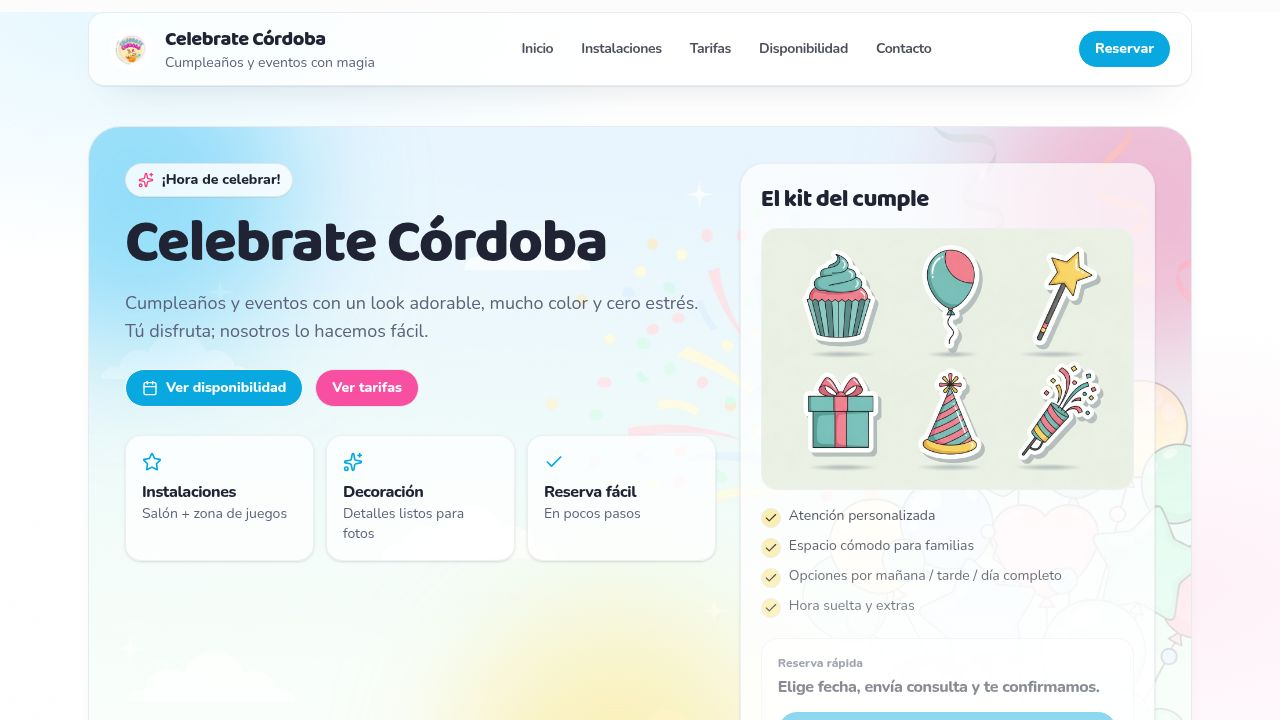
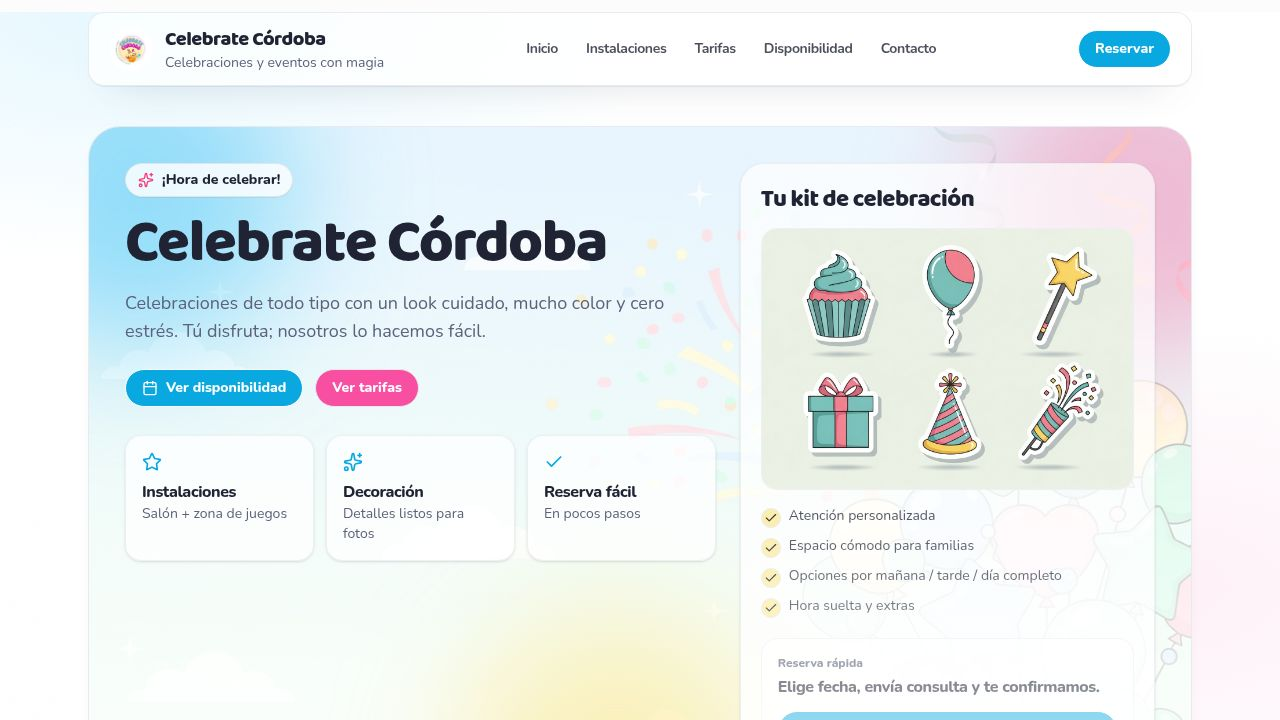
Update website text to include all types of celebrations
Update various text elements across the website to broaden the scope from just birthdays to include all types of celebrations such as baptisms, baby showers, gender reveals, retirements, etc.

Replit-Commit-Author: Agent
Replit-Commit-Session-Id: 90c75613-9b11-452d-acb2-c6803066e9fc
Replit-Commit-Checkpoint-Type: full_checkpoint
Replit-Commit-Event-Id: 3536653d-f601-49b5-986e-44497f51326b
Replit-Commit-Screenshot-Url: https://storage.googleapis.com/screenshot-production-us-central1/1b2036fc-20e4-4a12-98d4-a910174e01e3/90c75613-9b11-452d-acb2-c6803066e9fc/VBF2WS6
Replit-Helium-Checkpoint-Created: true

diff --git a/client/src/pages/home.tsx b/client/src/pages/home.tsx
@@ -108,7 +108,7 @@ function Nav() {
                   className="text-xs sm:text-sm text-muted-foreground"
                   data-testid="text-tagline"
                 >
-                  Cumpleaños y eventos con magia
+                  Celebraciones y eventos con magia
                 </div>
               </div>
             </div>
@@ -216,7 +216,7 @@ function Hero() {
                 Celebrate Córdoba
               </h1>
               <p className="mt-4 text-base sm:text-lg text-muted-foreground max-w-prose" data-testid="text-subtitle">
-                Cumpleaños y eventos con un look adorable, mucho color y cero estrés.
+                Celebraciones de todo tipo con un look cuidado, mucho color y cero estrés.
                 Tú disfruta; nosotros lo hacemos fácil.
               </p>
 
@@ -268,7 +268,7 @@ function Hero() {
               <div className="relative h-full rounded-3xl overflow-hidden border border-border/70 bg-white/70 shadow-sm">
                 <div className="absolute inset-0 bg-gradient-to-b from-white/0 via-white/0 to-white/70" />
                 <div className="p-5">
-                  <div className="font-display text-2xl font-extrabold tracking-tight">El kit del cumple</div>
+                  <div className="font-display text-2xl font-extrabold tracking-tight">Tu kit de celebración</div>
 
                   <div className="mt-3 rounded-2xl overflow-hidden border border-border/70 bg-white/70">
                     <img
@@ -327,11 +327,11 @@ function Presentation() {
         <div className="grid md:grid-cols-12 gap-6 items-start">
           <div className="md:col-span-7">
             <h2 className="font-display text-3xl sm:text-4xl font-extrabold tracking-tight" data-testid="text-presentacion-title">
-              Un cumple sin estrés (y con mucha diversión)
+              Celebraciones sin estrés (y con mucha ilusión)
             </h2>
             <p className="mt-3 text-muted-foreground text-base sm:text-lg" data-testid="text-presentacion-desc">
-              Celebrate Córdoba es un espacio diseñado para que los peques disfruten y los adultos también.
-              Cuidamos cada detalle para que la celebración sea fácil, bonita y segura.
+              Celebrate Córdoba es un espacio versátil para celebrar cumpleaños, bautizos, baby showers, revelaciones, jubilaciones y mucho más.
+              Cuidamos cada detalle para que tu evento sea fácil, bonito y seguro.
             </p>
 
             <div className="mt-6 grid sm:grid-cols-2 gap-4">
@@ -404,7 +404,7 @@ function Gallery() {
         { label: "Zona de juegos", seed: "juegos" },
         { label: "Mesa dulce", seed: "mesa" },
         { label: "Decoración", seed: "deco" },
-        { label: "Cumples", seed: "cumple" },
+        { label: "Celebraciones", seed: "celebraciones" },
         { label: "Detalles", seed: "detalles" },
         { label: "Familias", seed: "familias" },
         { label: "Fotos", seed: "fotos" },
@@ -476,7 +476,7 @@ function Tarifas() {
       title: "Lunes a jueves · Mañanas",
       time: "10:00 a 14:00",
       price: "50€",
-      details: ["4 horas", "Ideal para cumple temprano", "Consultar servicios incluidos"],
+      details: ["4 horas", "Ideal para celebraciones cortas", "Consultar servicios incluidos"],
     },
     {
       title: "Lunes a jueves · Tardes",
@@ -929,7 +929,7 @@ function Footer() {
               <div>
                 <div className="font-display text-xl font-extrabold tracking-tight">Celebrate Córdoba</div>
                 <div className="text-sm text-muted-foreground" data-testid="text-footer-desc">
-                  Cumpleaños y eventos · Córdoba
+                  Celebraciones y eventos · Córdoba
                 </div>
               </div>
             </div>
